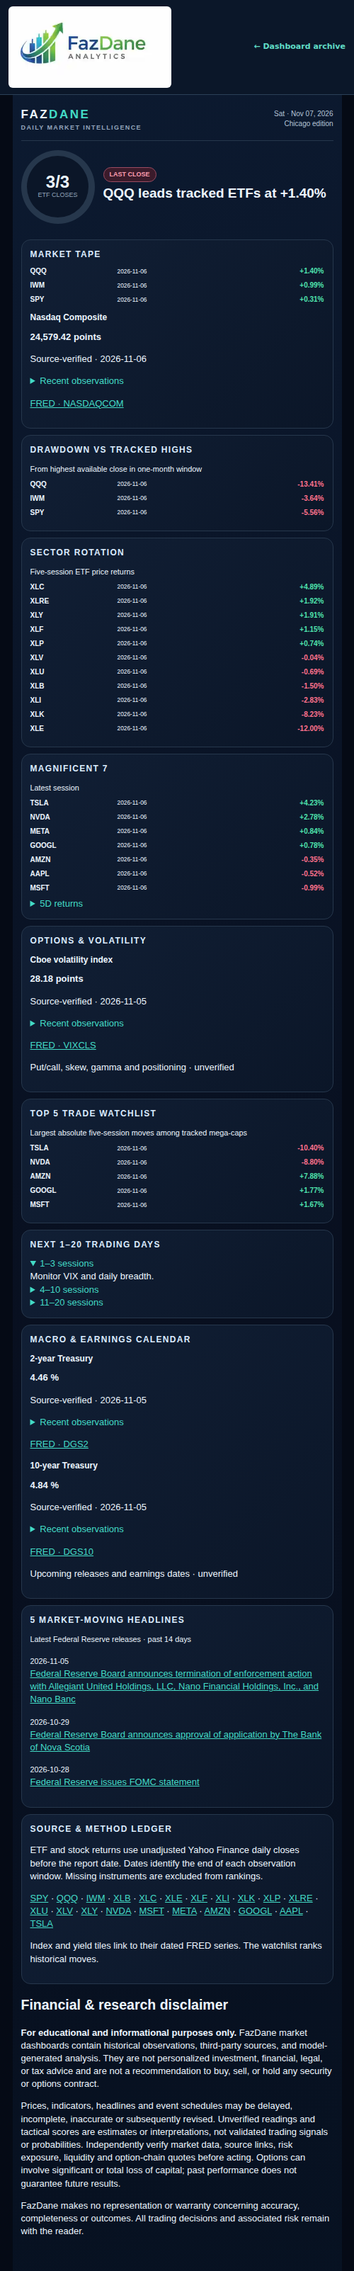
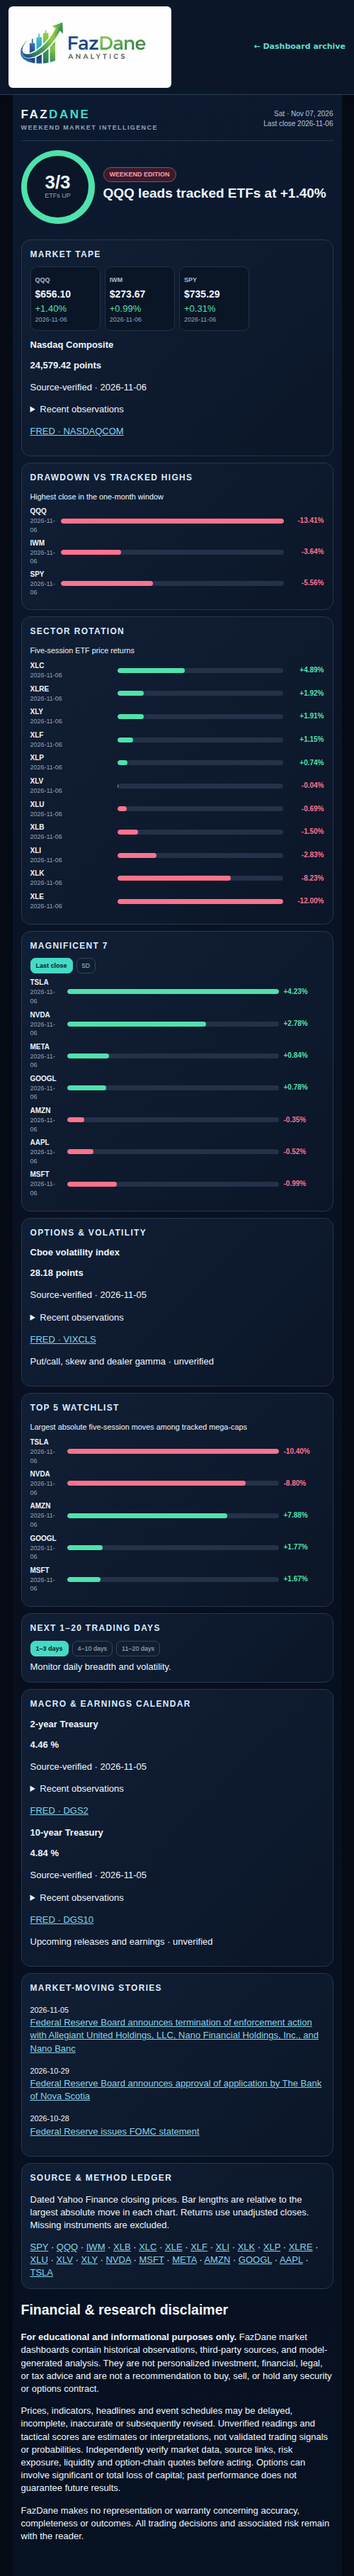
Archive daily dashboard

diff --git a/reports/2026-11-07.html b/reports/2026-11-07.html
@@ -1,5 +1,10 @@
-<!doctype html><html lang="en"><head><meta charset="utf-8"><meta name="viewport" content="width=device-width,initial-scale=1"><title>FazDane Daily Market Intelligence | 2026-11-07</title><style>
+<!doctype html><html lang="en"><head><meta charset="utf-8"><meta name="viewport" content="width=device-width,initial-scale=1"><meta name="fazdane-layout" content="edition-v2"><title>FazDane Weekend Edition | 2026-11-07</title><style>
 :root{color-scheme:dark;--bg:#070e1d;--panel:#111d31;--panel2:#0d182a;--line:#26374c;--muted:#92a4ba;--text:#edf6ff;--teal:#43dbc6;--green:#4fe2ad;--red:#ff728d;--amber:#ffca77;--blue:#76b7ff}*{box-sizing:border-box}body{margin:0;background:#050a15;color:var(--text);font:13px/1.4 -apple-system,BlinkMacSystemFont,'Segoe UI',sans-serif}.shell{width:min(100%,465px);margin:auto;padding:13px 12px 24px;background:linear-gradient(160deg,#0c1a30,#080f1f 55%,#071222);min-height:100vh}.brand{display:flex;align-items:center;justify-content:space-between;border-bottom:1px solid var(--line);padding:3px 0 11px}.brand .mark{font-size:17px;font-weight:850;letter-spacing:2.5px}.brand .mark b{color:var(--teal)}.eyebrow{font-size:9px;letter-spacing:1.4px;color:var(--muted);font-weight:800;text-transform:uppercase}.date{font-size:10px;color:#b5c5d8;text-align:right}.hero{display:flex;align-items:center;gap:12px;padding:13px 0}.dial{height:104px;width:104px;flex:0 0 104px;border-radius:50%;background:conic-gradient(var(--red) 0 27%,#26344a 27% 100%);display:grid;place-items:center}.dial .inner{height:87px;width:87px;background:#0b1628;border-radius:50%;display:flex;flex-direction:column;justify-content:center;align-items:center}.dial strong{font-size:37px;line-height:1;font-weight:850}.dial small{font-size:9px;color:var(--muted)}.hero h1{font-size:19px;line-height:1.15;margin:5px 0 7px}.hero p{color:#b7c7d9;font-size:11px;margin:0}.pill{border:1px solid #9b4c62;color:#ff9eb1;background:#3b1b2b;border-radius:999px;font-size:9px;font-weight:800;padding:3px 8px;display:inline-block}.panel{border:1px solid var(--line);border-radius:13px;background:linear-gradient(135deg,#111f35,#0b1628);padding:12px;margin:9px 0}.sec{display:flex;align-items:center;justify-content:space-between;gap:8px;margin-bottom:9px}.sec h2{font-size:12px;letter-spacing:1.3px;text-transform:uppercase;margin:0;color:#dcecff}.sec small{font-size:9px;color:var(--muted)}.fact{font-size:8px;letter-spacing:.7px;color:var(--teal);font-weight:800}.interp{color:var(--amber)}.tiles{display:grid;grid-template-columns:repeat(4,1fr);gap:6px}.tile{background:#0a1526;border:1px solid #22324a;border-radius:9px;padding:8px 6px}.tile .ticker{font-size:9px;color:#aabdd3;font-weight:800}.tile .price{font-size:14px;font-weight:800;margin:2px 0}.tile .change{font-size:10px;font-weight:800}.negative{color:var(--red)!important}.positive{color:var(--green)!important}.foot{color:#8198b0;font-size:9px;margin:8px 0 0}.cols{display:grid;grid-template-columns:1fr 1fr;gap:8px}.metric{background:#091528;border-radius:9px;border:1px solid #23354d;padding:8px}.metric label{display:block;color:#91a8c0;font-size:9px}.metric strong{display:block;font-size:20px;line-height:1.15;margin-top:2px}.metric small{font-size:9px;color:#96a9bf}.sectorrow,.magrow{display:grid;grid-template-columns:116px 1fr 51px;align-items:center;gap:7px;margin:6px 0;font-size:10px}.sectorrow em{font-style:normal;color:#7188a1;font-size:9px}.sectorbar,.magtrack{height:7px;border-radius:9px;background:#233149;overflow:hidden}.sectorbar i,.magtrack i{display:block;height:100%;border-radius:8px}.sectorbar .up{background:#36c9aa}.sectorbar .down,.magtrack i{background:#f66f8d}.sectorrow strong,.magrow .magval{text-align:right;font-size:10px;font-weight:800}.magrow{grid-template-columns:45px 1fr 57px}.buttons{display:flex;gap:5px}.buttons button{border:1px solid #33465d;border-radius:7px;background:#111e32;color:#a9bdd1;font-size:9px;padding:5px 7px;cursor:pointer}.buttons button.active{color:#061a20;background:var(--teal);border-color:var(--teal);font-weight:850}.optgrid{display:grid;grid-template-columns:repeat(3,1fr);gap:7px}.opt{background:#091426;border:1px solid #22344b;padding:8px;border-radius:9px}.opt label{display:block;color:#91a5ba;font-size:9px}.opt b{display:block;font-size:17px;margin-top:2px}.opt small{color:#7f94ad;font-size:9px}.unverified{color:#ffcf87!important}.opps{display:flex;flex-direction:column;gap:6px}.opp{display:flex;align-items:flex-start;gap:8px;background:#091528;border-radius:9px;padding:8px;border:1px solid #22344b}.num{font-size:11px;color:#5a7797;font-weight:900}.opptext{flex:1;min-width:0}.opptext div{display:flex;gap:6px;align-items:baseline}.opptext b{font-size:12px}.opptext small{font-size:9px;color:#a2b7ce}.opptext p{font-size:9px;color:#a4b6cb;margin:3px 0 0}.oppright{text-align:right}.oppright b{display:block;color:var(--teal);font-size:17px}.oppright small{display:block;font-size:9px;color:#8ca2ba;white-space:nowrap}.event{display:flex;align-items:center;gap:8px;padding:7px 0;border-top:1px solid #22344a}.event:first-child{border-top:0}.event .day{width:52px;font-weight:800;color:var(--amber);font-size:10px}.event .evbody{flex:1;font-size:10px}.event .evbody small{display:block;color:#8199b1;font-size:9px}.event .tag{font-size:8px;border:1px solid #465b72;border-radius:5px;padding:2px 5px;color:#b7cbe0}.newsitem{display:flex;gap:9px;align-items:center;text-decoration:none;color:inherit;padding:7px 0;border-top:1px solid #24354a}.newsitem:first-child{border-top:0}.newsitem img{width:65px;height:57px;object-fit:cover;border-radius:7px;flex:0 0 65px}.newsbody{display:flex;flex-direction:column;gap:1px;min-width:0}.newsbody b{font-size:10.5px;line-height:1.2}.newsbody span{font-size:9px;color:#9ab0c7}.newsbody small{font-size:8px;color:#5fe0cd}.horizon{display:flex;gap:6px;margin-bottom:8px}.horizon button{flex:1;padding:8px 4px;border:1px solid #3a4b61;background:#101f34;border-radius:8px;color:#b2c7db;font-weight:800;font-size:10px;cursor:pointer}.horizon button.active{background:#1d665e;color:#c9fff5;border-color:#42d5bd}.plan{font-size:11px;color:#d4e4f3;line-height:1.5;min-height:53px}.callout{border-left:3px solid var(--amber);padding-left:9px;color:#b6c6d8;font-size:10px;margin-top:9px}.sources{font-size:9px;color:#94abc3;line-height:1.6}.sources a{color:#7bdad1;text-decoration:none}.legend{display:flex;gap:9px;flex-wrap:wrap;font-size:9px;color:#8da3ba}.legend b{color:var(--teal)}.footer{font-size:9px;color:#6f859d;text-align:center;padding:10px 0 0}.drawrow{display:grid;grid-template-columns:36px 1fr 50px;gap:7px;align-items:center;margin:5px 0;font-size:10px}.drawbar{height:7px;background:#233149;border-radius:9px;overflow:hidden}.drawbar i{display:block;height:100%;background:linear-gradient(90deg,#ffbf77,#ff708b);border-radius:9px}.drawrow strong{text-align:right;color:#ff9bb1}@media(max-width:380px){.shell{padding:10px 8px}.tile .price{font-size:12px}.sectorrow{grid-template-columns:99px 1fr 46px}.sectorrow em{display:none}}
-</style><style id="fazdane-branding">.fd-brandbar{box-sizing:border-box;max-width:900px;margin:0 auto;padding:9px 12px;display:flex;align-items:center;justify-content:space-between;gap:10px;background:#0b1729;border-bottom:1px solid #2b4057;color:#cde3f4;font:11px/1.35 system-ui,-apple-system,Segoe UI,sans-serif}.fd-brandbar img{display:block;width:clamp(150px,46vw,245px);height:auto;background:white;padding:2px;border-radius:6px}.fd-brandbar a{color:#60ddc6;text-decoration:none;font-weight:700;white-space:nowrap}.fd-disclaimer{box-sizing:border-box;max-width:900px;margin:18px auto 16px;padding:14px 16px;border:1px solid #344b61;border-radius:10px;background:#101d30;color:#b7c8d9;font:11px/1.55 system-ui,-apple-system,Segoe UI,sans-serif}.fd-disclaimer h2{margin:0 0 7px;font:800 12px/1.35 system-ui,-apple-system,Segoe UI,sans-serif;color:#ecf5ff;letter-spacing:.5px;text-transform:uppercase}.fd-disclaimer p{margin:0 0 7px}.fd-disclaimer p:last-child{margin:0}</style><style>a,summary{color:var(--teal)}summary{cursor:pointer}.panel article h2{font-size:12px}.dial{background:#26374c}.dial strong{font-size:24px}</style></head>
[1 lines of base64/hex data omitted]
-<div class="hero"><div class="dial"><div class="inner"><strong>3/3</strong><small>ETF CLOSES</small></div></div><div><span class="pill">LAST CLOSE</span><h1>QQQ leads tracked ETFs at +1.40%</h1></div></div><section class="panel"><div class="sec"><h2>Market tape</h2></div><div class="sectorrow"><b>QQQ</b><small>2026-11-06</small><strong class="positive">+1.40%</strong></div><div class="sectorrow"><b>IWM</b><small>2026-11-06</small><strong class="positive">+0.99%</strong></div><div class="sectorrow"><b>SPY</b><small>2026-11-06</small><strong class="positive">+0.31%</strong></div><article><h2>Nasdaq Composite</h2><strong>24,579.42 points</strong><p>Source-verified · 2026-11-06</p><details><summary>Recent observations</summary><ul><li>2026-11-06 · 24,579.42</li><li>2026-11-05 · 24,315.00</li><li>2026-11-04 · 25,736.51</li><li>2026-11-03 · 25,372.01</li><li>2026-11-02 · 25,164.36</li><li>2026-10-30 · 25,437.00</li><li>2026-10-29 · 26,184.72</li></ul></details><p><a href="https://fred.stlouisfed.org/series/NASDAQCOM">FRED · NASDAQCOM</a></p></article></section><section class="panel"><div class="sec"><h2>Drawdown vs tracked highs</h2></div><small>From highest available close in one-month window</small><div class="sectorrow"><b>QQQ</b><small>2026-11-06</small><strong class="negative">-13.41%</strong></div><div class="sectorrow"><b>IWM</b><small>2026-11-06</small><strong class="negative">-3.64%</strong></div><div class="sectorrow"><b>SPY</b><small>2026-11-06</small><strong class="negative">-5.56%</strong></div></section><section class="panel"><div class="sec"><h2>Sector rotation</h2></div><small>Five-session ETF price returns</small><div class="sectorrow"><b>XLC</b><small>2026-11-06</small><strong class="positive">+4.89%</strong></div><div class="sectorrow"><b>XLRE</b><small>2026-11-06</small><strong class="positive">+1.92%</strong></div><div class="sectorrow"><b>XLY</b><small>2026-11-06</small><strong class="positive">+1.91%</strong></div><div class="sectorrow"><b>XLF</b><small>2026-11-06</small><strong class="positive">+1.15%</strong></div><div class="sectorrow"><b>XLP</b><small>2026-11-06</small><strong class="positive">+0.74%</strong></div><div class="sectorrow"><b>XLV</b><small>2026-11-06</small><strong class="negative">-0.04%</strong></div><div class="sectorrow"><b>XLU</b><small>2026-11-06</small><strong class="negative">-0.69%</strong></div><div class="sectorrow"><b>XLB</b><small>2026-11-06</small><strong class="negative">-1.50%</strong></div><div class="sectorrow"><b>XLI</b><small>2026-11-06</small><strong class="negative">-2.83%</strong></div><div class="sectorrow"><b>XLK</b><small>2026-11-06</small><strong class="negative">-8.23%</strong></div><div class="sectorrow"><b>XLE</b><small>2026-11-06</small><strong class="negative">-12.00%</strong></div></section><section class="panel"><div class="sec"><h2>Magnificent 7</h2></div><small>Latest session</small><div class="sectorrow"><b>TSLA</b><small>2026-11-06</small><strong class="positive">+4.23%</strong></div><div class="sectorrow"><b>NVDA</b><small>2026-11-06</small><strong class="positive">+2.78%</strong></div><div class="sectorrow"><b>META</b><small>2026-11-06</small><strong class="positive">+0.84%</strong></div><div class="sectorrow"><b>GOOGL</b><small>2026-11-06</small><strong class="positive">+0.78%</strong></div><div class="sectorrow"><b>AMZN</b><small>2026-11-06</small><strong class="negative">-0.35%</strong></div><div class="sectorrow"><b>AAPL</b><small>2026-11-06</small><strong class="negative">-0.52%</strong></div><div class="sectorrow"><b>MSFT</b><small>2026-11-06</small><strong class="negative">-0.99%</strong></div><details><summary>5D returns</summary><div class="sectorrow"><b>AMZN</b><small>2026-11-06</small><strong class="positive">+7.88%</strong></div><div class="sectorrow"><b>GOOGL</b><small>2026-11-06</small><strong class="positive">+1.77%</strong></div><div class="sectorrow"><b>MSFT</b><small>2026-11-06</small><strong class="positive">+1.67%</strong></div><div class="sectorrow"><b>AAPL</b><small>2026-11-06</small><strong class="negative">-0.66%</strong></div><div class="sectorrow"><b>META</b><small>2026-11-06</small><strong class="negative">-0.79%</strong></div><div class="sectorrow"><b>NVDA</b><small>2026-11-06</small><strong class="negative">-8.80%</strong></div><div class="sectorrow"><b>TSLA</b><small>2026-11-06</small><strong class="negative">-10.40%</strong></div></details></section><section class="panel"><div class="sec"><h2>Options &amp; volatility</h2></div><article><h2>Cboe volatility index</h2><strong>28.18 points</strong><p>Source-verified · 2026-11-05</p><details><summary>Recent observations</summary><ul><li>2026-11-05 · 28.18</li><li>2026-11-04 · 16.61</li><li>2026-11-03 · 20.83</li><li>2026-11-02 · 21.15</li><li>2026-10-30 · 19.42</li><li>2026-10-29 · 17.20</li><li>2026-10-28 · 16.91</li></ul></details><p><a href="https://fred.stlouisfed.org/series/VIXCLS">FRED · VIXCLS</a></p></article><p>Put/call, skew, gamma and positioning · unverified</p></section><section class="panel"><div class="sec"><h2>Top 5 trade watchlist</h2></div><small>Largest absolute five-session moves among tracked mega-caps</small><div class="sectorrow"><b>TSLA</b><small>2026-11-06</small><strong class="negative">-10.40%</strong></div><div class="sectorrow"><b>NVDA</b><small>2026-11-06</small><strong class="negative">-8.80%</strong></div><div class="sectorrow"><b>AMZN</b><small>2026-11-06</small><strong class="positive">+7.88%</strong></div><div class="sectorrow"><b>GOOGL</b><small>2026-11-06</small><strong class="positive">+1.77%</strong></div><div class="sectorrow"><b>MSFT</b><small>2026-11-06</small><strong class="positive">+1.67%</strong></div></section><section class="panel"><div class="sec"><h2>Next 1–20 trading days</h2></div><details open><summary>1–3 sessions</summary>Monitor VIX and daily breadth.</details><details><summary>4–10 sessions</summary>Review sector leadership against five-session returns.</details><details><summary>11–20 sessions</summary>Reassess drawdowns and the Treasury curve.</details></section><section class="panel"><div class="sec"><h2>Macro &amp; earnings calendar</h2></div><article><h2>2-year Treasury</h2><strong>4.46 %</strong><p>Source-verified · 2026-11-05</p><details><summary>Recent observations</summary><ul><li>2026-11-05 · 4.46</li><li>2026-11-04 · 4.58</li><li>2026-11-03 · 4.61</li><li>2026-11-02 · 4.59</li><li>2026-10-30 · 4.56</li><li>2026-10-29 · 4.61</li><li>2026-10-28 · 4.67</li></ul></details><p><a href="https://fred.stlouisfed.org/series/DGS2">FRED · DGS2</a></p></article><article><h2>10-year Treasury</h2><strong>4.84 %</strong><p>Source-verified · 2026-11-05</p><details><summary>Recent observations</summary><ul><li>2026-11-05 · 4.84</li><li>2026-11-04 · 4.90</li><li>2026-11-03 · 4.95</li><li>2026-11-02 · 4.91</li><li>2026-10-30 · 4.94</li><li>2026-10-29 · 4.98</li><li>2026-10-28 · 5.05</li></ul></details><p><a href="https://fred.stlouisfed.org/series/DGS10">FRED · DGS10</a></p></article><p>Upcoming releases and earnings dates · unverified</p></section><section class="panel"><div class="sec"><h2>5 market-moving headlines</h2></div><small>Latest Federal Reserve releases · past 14 days</small><p><small>2026-11-05</small><br><a href="https://www.federalreserve.gov/newsevents/pressreleases/enforcement20261105a.htm">Federal Reserve Board announces termination of enforcement action with Allegiant United Holdings, LLC, Nano Financial Holdings, Inc., and Nano Banc</a></p><p><small>2026-10-29</small><br><a href="https://www.federalreserve.gov/newsevents/pressreleases/orders20261029a.htm">Federal Reserve Board announces approval of application by The Bank of Nova Scotia</a></p><p><small>2026-10-28</small><br><a href="https://www.federalreserve.gov/newsevents/pressreleases/monetary20261028a.htm">Federal Reserve issues FOMC statement</a></p></section><section class="panel"><div class="sec"><h2>Source &amp; method ledger</h2></div><p>ETF and stock returns use unadjusted Yahoo Finance daily closes before the report date. Dates identify the end of each observation window. Missing instruments are excluded from rankings.</p><a href="https://finance.yahoo.com/quote/SPY/history/">SPY</a> · <a href="https://finance.yahoo.com/quote/QQQ/history/">QQQ</a> · <a href="https://finance.yahoo.com/quote/IWM/history/">IWM</a> · <a href="https://finance.yahoo.com/quote/XLB/history/">XLB</a> · <a href="https://finance.yahoo.com/quote/XLC/history/">XLC</a> · <a href="https://finance.yahoo.com/quote/XLE/history/">XLE</a> · <a href="https://finance.yahoo.com/quote/XLF/history/">XLF</a> · <a href="https://finance.yahoo.com/quote/XLI/history/">XLI</a> · <a href="https://finance.yahoo.com/quote/XLK/history/">XLK</a> · <a href="https://finance.yahoo.com/quote/XLP/history/">XLP</a> · <a href="https://finance.yahoo.com/quote/XLRE/history/">XLRE</a> · <a href="https://finance.yahoo.com/quote/XLU/history/">XLU</a> · <a href="https://finance.yahoo.com/quote/XLV/history/">XLV</a> · <a href="https://finance.yahoo.com/quote/XLY/history/">XLY</a> · <a href="https://finance.yahoo.com/quote/NVDA/history/">NVDA</a> · <a href="https://finance.yahoo.com/quote/MSFT/history/">MSFT</a> · <a href="https://finance.yahoo.com/quote/META/history/">META</a> · <a href="https://finance.yahoo.com/quote/AMZN/history/">AMZN</a> · <a href="https://finance.yahoo.com/quote/GOOGL/history/">GOOGL</a> · <a href="https://finance.yahoo.com/quote/AAPL/history/">AAPL</a> · <a href="https://finance.yahoo.com/quote/TSLA/history/">TSLA</a><p>Index and yield tiles link to their dated FRED series. The watchlist ranks historical moves.</p></section><section class="card" aria-labelledby="disclaimer-heading"><h2 id="disclaimer-heading">Financial &amp; research disclaimer</h2><p class="lead"><strong>For educational and informational purposes only.</strong> FazDane market dashboards contain historical observations, third-party sources, and model-generated analysis. They are not personalized investment, financial, legal, or tax advice and are not a recommendation to buy, sell, or hold any security or options contract.</p><p class="lead">Prices, indicators, headlines and event schedules may be delayed, incomplete, inaccurate or subsequently revised. Unverified readings and tactical scores are estimates or interpretations, not validated trading signals or probabilities. Independently verify market data, source links, risk exposure, liquidity and option-chain quotes before acting. Options can involve significant or total loss of capital; past performance does not guarantee future results.</p><p class="lead">FazDane makes no representation or warranty concerning accuracy, completeness or outcomes. All trading decisions and associated risk remain with the reader.</p></section></main></body></html>
[1 lines of base64/hex data omitted]
+      const group=button.parentElement;
+      Array.from(group.children).forEach((tab,i)=>{
+        tab.classList.toggle('active',i===index);
+        tab.setAttribute('aria-pressed',String(i===index));
+      });
+      group.parentElement.querySelectorAll('[data-pane]').forEach((pane,i)=>pane.hidden=i!==index);
+    }</script></body></html>
